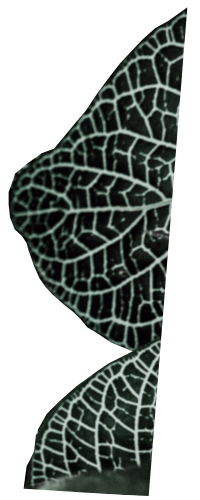
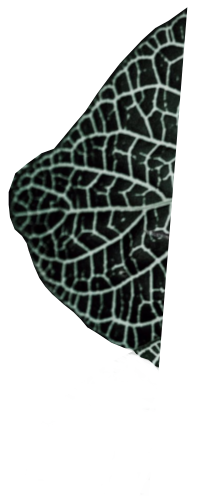
avancée partie 6

Changed region(s): [[0.12, 0.69, 0.81, 1.0]]

diff --git a/partie7/exercice.css b/partie7/exercice.css
@@ -116,5 +116,7 @@ input[type="submit"]{
 }
 #feuille{
   position: absolute;
-  margin-top: 50px;
+  margin-top: -180px;
+  margin-left: 463px;
+  transform: scale(0.66);
 }

diff --git a/partie7/exercice6/index.php b/partie7/exercice6/index.php
@@ -1,5 +1,5 @@
 <?php
-// déclaration variables //
+// déclaration variables globales//
     
 // fin déclaration //
 // fonctions //
@@ -24,8 +24,6 @@
             if(acceptRegexName($inputVal)){
                 $bool = true;
             }
-        }else{
-            inputValIncorrect($inputVal);
         }
         return $bool;
     }
@@ -56,22 +54,30 @@
                     if (inputFieldCorrect($_POST['inputFirstname']) && inputFieldCorrect($_POST['inputLastname'])) {
                         echo 'Vos données ont été renseignées avec succès.';
                     } else {
-                        ?>
-                        <form class="myForm" action="" method="POST">
-                            <div class="choiceSelect">
-                                <label for="choiceCivility">Civilité : </label>
-                                <select name="choiceCivility" id="choiceCivility" value="<?php isset($_POST['choiceCivility']) ?>">
-                                    <option value="mme">Madame</option>
-                                    <option value="mr">Monsieur</option>
-                                </select>
-                            </div>
-                            <label for="inputFirstname">Prénom :</label>
-                            <input type="text" name="inputFirstname" placeholder="Jean" id="inputFirstname" value="<?php isset($_POST['inputFirstname']) ?>"/>
-                            <label for="inputLastname">Nom :</label>
-                            <input type="text" name="inputLastname" placeholder="Mich" id="inputLastname" value="<?php isset($_POST['inputLastname']) ?>" />
-                            <input type="submit" id="submitButton" value="S'enregistrer" />
-                        </form>
-                        <?php
+                        if (){
+                            if(){
+                                echo inputValIncorrect($_POST['inputFirstname']);
+                            }else{
+                                echo inputValIncorrect($_POST['inputLastname']);
+                            }
+                        }else{
+                            ?>
+                            <form class="myForm" action="#" method="POST">
+                                <div class="choiceSelect">
+                                    <label for="choiceCivility">Civilité : </label>
+                                    <select name="choiceCivility" id="choiceCivility" value="<?php isset($_POST['choiceCivility']) ?>">
+                                        <option disabled selected>à choisir</option>
+                                        <option value="mme">Madame</option>
+                                        <option value="mr">Monsieur</option>
+                                    </select>
+                                </div>
+                                <label for="inputFirstname">Prénom :</label>
+                                <input type="text" name="inputFirstname" placeholder="Jean" id="inputFirstname" value="<?php isset($_POST['inputFirstname']) ?>"/>
+                                <label for="inputLastname">Nom :</label>
+                                <input type="text" name="inputLastname" placeholder="Mich" id="inputLastname" value="<?php isset($_POST['inputLastname']) ?>" />
+                                <input type="submit" id="submitButton" value="S'enregistrer" />
+                            </form>
+                            <?php
                     }
                     ?>
                 </div>

diff --git a/partie7/exercice7/index.php b/partie7/exercice7/index.php
@@ -39,8 +39,9 @@
               <div class="choiceSelect">
                 <label for="choiceCivility">Civilité : </label>
                 <select name="choiceCivility" id="choiceCivility">
-                  <option value="mme">Madame</option>
-                  <option value="mr">Monsieur</option>
+                    <option disabled selected>à choisir</option>
+                    <option value="mme">Madame</option>
+                    <option value="mr">Monsieur</option>
                 </select>
               </div>
             <label for="inputFirstname">Prénom :</label>

diff --git a/partie7/exercice3/index.php b/partie7/exercice3/index.php
@@ -10,7 +10,7 @@
     <div id="containerPage">
       <h1>Exercice 3</h1>
       <div id="containerFormBack">
-        <img src="../nature-solo1.png" width="100" height="250" alt="feuille" id="feuille"/>
+        <img src="../nature-solo1.png" alt="feuille" id="feuille"/>
         <h2>Renseignez vos coordonnées</h2>
         <div id="containerFormFront">
           <form class="myForm" action="user.php" method="GET">
